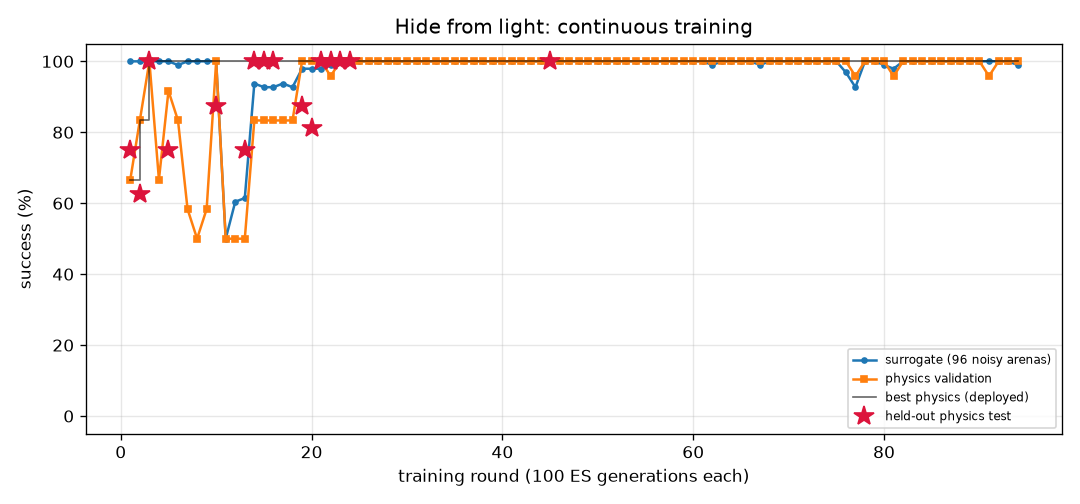
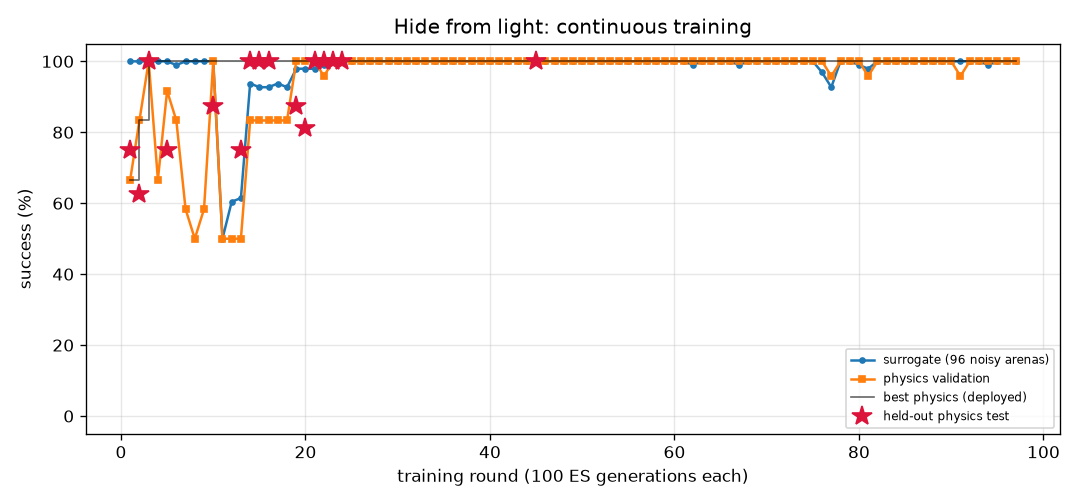
FlyLab: continuous training progress
- walk_forward: optimal, physics val 100% of 24, round 46
- turn: optimal, physics val 100% of 24, round 149
- goto: optimal, physics val 100% of 24, round 46
- odor_seek: optimal, physics val 100% of 24, round 72
- odor_avoid: optimal, physics val 100% of 24, round 291
- light_seek: optimal, physics val 100% of 24, round 223
- light_avoid: optimal, physics val 100% of 24, round 97

diff --git a/projects/09_flylab/training/light_avoid/REPORT.md b/projects/09_flylab/training/light_avoid/REPORT.md
@@ -1,14 +1,14 @@
 # Hide from light (`light_avoid`) — training report
 
-*Auto-generated by `train_brains.py`, last updated 2026-10-04T23:54:23.*
+*Auto-generated by `train_brains.py`, last updated 2026-10-05T12:00:06.*
 
 ![curve](curve.png)
 
 | | |
 |---|---|
-| rounds | 94 |
-| ES generations | 9400 |
-| physics runs | 2496 |
+| rounds | 97 |
+| ES generations | 9700 |
+| physics runs | 2568 |
 | status | **optimal** |
 | best brain | round 45: physics validation **100%** on 24 arenas, surrogate 100% |
 | held-out physics test | **100%** on 32 unseen arenas (95% CI 89%-100%) (errors: [14.4, 28.9, 31.6, 32.2, 31.9, 13.9, 14.5, 34.1, 33.7, 13.3, 14.0, 31.3, 31.1, 13.1, 32.4, 33.8, 32.9, 32.2, 31.7, 32.0, 29.0, 12.3, 31.9, 33.2, 14.2, 13.7, 33.6, 32.5, 33.2, 13.2, 28.1, 33.7]) |
@@ -17,9 +17,6 @@ Physics error per arena: mm gained away from source (> 6 without first approachi
 
 | round | level | gens | sigma | surrogate | physics val | val errors | test | note |
 |---:|---:|---:|---:|---:|---:|---|---:|---|
-| 55 | 3 | 5500 | 0.024 | 100% | 100% | [48.1, 49.4, 49.4, 48.2, 47.7, 48.4, 48.7, 14.5, 43.6, 13.1, 49.3, 47.5, 14.4, 46.7, 49.4, 47.8, 14.2, 48.5, 49.7, 14.4, 47.8, 49.5, 48.4, 46.4] |  |  |
-| 56 | 3 | 5600 | 0.024 | 100% | 100% | [43.9, 45.8, 45.5, 45.1, 46.9, 45.5, 44.0, 14.5, 42.0, 13.4, 46.6, 46.7, 14.3, 45.8, 45.5, 46.1, 14.2, 47.1, 45.7, 14.4, 44.5, 46.8, 44.1, 46.5] |  |  |
-| 57 | 3 | 5700 | 0.024 | 100% | 100% | [50.8, 53.5, 53.6, 50.4, 49.8, 50.2, 53.5, 14.5, 48.3, 13.5, 51.8, 49.7, 14.4, 48.4, 53.6, 50.0, 14.2, 50.9, 53.4, 14.4, 49.6, 51.9, 53.0, 48.6] |  | restart from best |
 | 58 | 3 | 5800 | 0.024 | 100% | 100% | [31.4, 28.9, 28.4, 28.9, 31.0, 31.0, 26.4, 14.5, 28.9, 13.1, 30.4, 31.0, 14.4, 29.0, 28.7, 26.9, 14.2, 31.0, 28.8, 14.4, 26.9, 30.2, 27.0, 30.9] |  |  |
 | 59 | 3 | 5900 | 0.024 | 100% | 100% | [32.7, 32.0, 32.7, 31.3, 30.3, 31.4, 33.6, 14.5, 29.7, 13.3, 28.8, 29.0, 14.4, 33.4, 33.3, 32.1, 14.2, 29.5, 31.6, 14.4, 30.8, 30.1, 32.6, 31.2] |  |  |
 | 60 | 3 | 6000 | 0.024 | 100% | 100% | [39.2, 38.9, 39.3, 38.8, 34.1, 38.6, 39.7, 14.5, 32.3, 13.2, 38.8, 33.5, 14.4, 36.4, 39.0, 39.1, 14.2, 35.2, 38.4, 14.4, 39.3, 38.7, 39.3, 32.6] |  |  |
@@ -57,3 +54,6 @@ Physics error per arena: mm gained away from source (> 6 without first approachi
 | 92 | 3 | 9200 | 0.024 | 100% | 100% | [42.9, 43.2, 43.6, 43.2, 38.5, 42.4, 43.8, 14.5, 39.7, 13.5, 43.4, 37.9, 14.4, 41.9, 43.4, 43.6, 14.2, 39.2, 43.1, 14.4, 44.1, 43.6, 43.0, 37.0] |  |  |
 | 93 | 3 | 9300 | 0.024 | 100% | 100% | [45.5, 46.6, 46.8, 45.6, 43.8, 45.3, 46.6, 14.5, 39.1, 13.2, 44.6, 42.3, 14.4, 45.4, 46.7, 45.0, 14.2, 44.1, 46.1, 14.4, 45.0, 45.7, 46.8, 42.4] |  | restart from best |
 | 94 | 3 | 9400 | 0.024 | 99% | 100% | [37.1, 37.9, 37.6, 38.9, 40.4, 36.4, 35.8, 14.5, 11.3, 13.5, 39.0, 40.4, 14.4, 39.0, 37.6, 38.2, 14.2, 40.2, 38.1, 14.4, 35.8, 39.5, 35.4, 40.5] |  |  |
+| 95 | 3 | 9500 | 0.025 | 100% | 100% | [44.4, 46.2, 45.9, 46.4, 50.0, 46.1, 44.1, 14.5, 46.3, 11.5, 47.0, 50.0, 14.4, 47.5, 46.1, 47.3, 14.2, 49.8, 46.3, 14.4, 42.8, 47.7, 44.6, 50.4] |  |  |
+| 96 | 3 | 9600 | 0.024 | 100% | 100% | [56.4, 59.2, 58.9, 56.8, 58.4, 55.7, 57.7, 14.5, 53.5, 13.3, 57.1, 58.2, 14.4, 58.0, 59.1, 55.7, 14.2, 58.9, 59.5, 14.4, 55.6, 56.9, 57.6, 57.6] |  |  |
+| 97 | 3 | 9700 | 0.024 | 100% | 100% | [53.0, 54.7, 54.6, 52.9, 52.6, 52.3, 54.0, 14.5, 50.2, 13.3, 52.7, 52.3, 14.4, 54.1, 54.7, 51.8, 14.2, 53.3, 54.7, 14.4, 51.3, 52.9, 53.6, 51.6] |  | restart from best |

diff --git a/projects/09_flylab/training/odor_avoid/REPORT.md b/projects/09_flylab/training/odor_avoid/REPORT.md
@@ -1,14 +1,14 @@
 # Escape a bad smell (`odor_avoid`) — training report
 
-*Auto-generated by `train_brains.py`, last updated 2026-10-04T23:16:26.*
+*Auto-generated by `train_brains.py`, last updated 2026-10-05T11:59:56.*
 
 ![curve](curve.png)
 
 | | |
 |---|---|
-| rounds | 288 |
-| ES generations | 28800 |
-| physics runs | 4090 |
+| rounds | 291 |
+| ES generations | 29100 |
+| physics runs | 4162 |
 | status | **optimal** |
 | best brain | round 288: physics validation **100%** on 24 arenas, surrogate 98% |
 | held-out physics test | **100%** on 32 unseen arenas (95% CI 89%-100%) (errors: [61.2, 57.1, 61.4, 61.0, 13.5, 61.1, 61.1, 60.7, 60.0, 56.9, 60.8, 56.8, 60.8, 60.0, 58.7, 59.7, 60.7, 54.4, 60.9, 54.7, 61.1, 60.5, 57.7, 58.7, 59.8, 55.9, 55.7, 45.8, 55.9, 58.2, 59.2, 28.5]) |
@@ -17,9 +17,6 @@ Physics error per arena: mm gained away from source (> 6 without first approachi
 
 | round | level | gens | sigma | surrogate | physics val | val errors | test | note |
 |---:|---:|---:|---:|---:|---:|---|---:|---|
-| 249 | 3 | 24900 | 0.025 | 94% | 96% | [43.9, 42.4, 42.1, 43.1, 42.7, 42.9, 43.7, 43.4, 43.1, 43.2, 43.6, 43.4, 40.7, 42.2, 38.7, 42.8, 43.2, 42.8, 41.0, 41.4, 43.3, 42.8, 42.7, 43.0] |  |  |
-| 250 | 3 | 25000 | 0.028 | 94% | 92% | [42.7, 42.1, 40.3, 41.0, 41.2, 42.0, 42.1, 43.2, 42.1, 42.9, 40.7, 42.3, 34.3, 37.0, 30.7, 41.5, 42.1, 41.7, 33.2, 41.6, 42.0, 42.9, 42.3, 43.2] |  | restart from best |
-| 251 | 3 | 25100 | 0.026 | 95% | 96% | [46.2, 44.7, 44.1, 45.0, 45.0, 44.7, 46.1, 45.2, 45.9, 44.6, 45.5, 45.5, 40.6, 42.1, 30.6, 44.2, 45.6, 44.5, 41.3, 43.1, 45.3, 45.0, 45.2, 44.7] |  |  |
 | 252 | 3 | 25200 | 0.027 | 96% | 100% | [48.5, 47.6, 45.0, 46.5, 45.4, 46.7, 47.6, 47.5, 47.4, 46.1, 45.9, 47.6, 40.9, 42.9, 34.7, 46.2, 47.3, 46.5, 42.4, 46.9, 47.8, 46.4, 46.7, 47.5] | 100% | new best |
 | 253 | 3 | 25300 | 0.026 | 95% | 96% | [44.2, 42.2, 39.2, 41.8, 43.1, 41.6, 44.5, 39.7, 43.6, 40.4, 43.3, 43.9, 37.6, 38.9, 25.1, 42.8, 43.9, 41.6, 38.6, 40.1, 43.9, 40.7, 41.9, 41.6] |  |  |
 | 254 | 3 | 25400 | 0.027 | 96% | 96% | [44.0, 42.7, 42.1, 43.1, 43.1, 41.6, 44.0, 23.8, 44.2, 31.9, 43.0, 43.7, 37.8, 39.6, 29.9, 42.0, 43.4, 41.8, 39.0, 42.9, 43.5, 38.8, 43.2, 37.9] |  |  |
@@ -57,3 +54,6 @@ Physics error per arena: mm gained away from source (> 6 without first approachi
 | 286 | 3 | 28600 | 0.026 | 95% | 96% | [58.9, 58.3, 55.0, 57.7, 59.9, 60.0, 59.6, 52.2, 59.5, 59.3, 59.2, 59.5, 51.0, 54.1, 39.8, 59.6, 59.8, 58.6, 52.5, 57.5, 60.1, 59.4, 57.1, 42.6] |  |  |
 | 287 | 3 | 28700 | 0.027 | 97% | 96% | [61.9, 55.9, 56.6, 56.7, 60.0, 60.1, 60.3, 57.1, 58.8, 59.3, 60.7, 59.8, 54.3, 56.4, 41.6, 60.9, 60.1, 60.2, 54.0, 53.5, 60.4, 59.2, 56.2, 58.6] |  |  |
 | 288 | 3 | 28800 | 0.026 | 98% | 100% | [61.9, 59.0, 55.6, 58.9, 61.2, 60.8, 59.8, 15.9, 59.7, 35.8, 52.4, 61.3, 50.8, 53.6, 12.5, 57.0, 61.4, 52.0, 54.4, 58.3, 61.0, 38.7, 59.1, 57.0] | 100% | new best |
+| 289 | 3 | 28900 | 0.025 | 95% | 96% | [61.8, 58.8, 56.8, 59.2, 61.2, 61.4, 60.4, 25.7, 61.0, 58.6, 61.4, 60.4, 54.3, 56.7, 41.0, 60.7, 61.2, 59.8, 54.3, 55.2, 61.1, 60.8, 58.7, 58.7] |  |  |
+| 290 | 3 | 29000 | 0.027 | 97% | 96% | [60.5, 56.8, 57.0, 57.3, 60.1, 59.2, 60.4, 50.9, 60.9, 42.3, 59.9, 60.0, 52.9, 54.8, 39.7, 60.1, 60.4, 59.6, 53.6, 57.1, 59.7, 51.1, 58.4, 50.6] |  |  |
+| 291 | 3 | 29100 | 0.026 | 94% | 96% | [59.4, 57.5, 56.1, 57.5, 59.5, 60.6, 60.0, 50.3, 60.0, 59.5, 58.2, 59.7, 52.7, 54.1, 34.1, 59.4, 59.5, 60.1, 53.5, 56.4, 59.7, 56.1, 57.8, 47.1] |  |  |

diff --git a/projects/09_flylab/training/turn/REPORT.md b/projects/09_flylab/training/turn/REPORT.md
@@ -1,14 +1,14 @@
 # Turn in place (`turn`) — training report
 
-*Auto-generated by `train_brains.py`, last updated 2026-10-05T11:13:46.*
+*Auto-generated by `train_brains.py`, last updated 2026-10-05T11:28:33.*
 
 ![curve](curve.png)
 
 | | |
 |---|---|
-| rounds | 148 |
-| ES generations | 14800 |
-| physics runs | 3798 |
+| rounds | 149 |
+| ES generations | 14900 |
+| physics runs | 3822 |
 | status | **optimal** |
 | best brain | round 80: physics validation **100%** on 24 arenas, surrogate 100% |
 | held-out physics test | **97%** on 32 unseen arenas (95% CI 84%-99%) (errors: [1.6, 3.3, 6.3, 3.7, 1.1, 0.4, 2.4, 2.9, 0.1, 2.6, 0.5, 2.7, 1.5, 3.1, 4.5, 0.2, 0.5, 1.1, 2.0, 4.4, 2.8, 3.2, 0.3, 2.2, 0.5, 3.0, 0.3, 5.4, 0.4, 1.0, 4.7, 10.7]) |
@@ -17,7 +17,6 @@ Physics error per arena: deg from target heading (< 20 = success).
 
 | round | level | gens | sigma | surrogate | physics val | val errors | test | note |
 |---:|---:|---:|---:|---:|---:|---|---:|---|
-| 109 | 3 | 10900 | 0.024 | 99% | 88% | [7.7, 10.0, 8.9, 5.2, 4.5, 0.5, 4.2, 0.3, 4.5, 1.7, 2.3, 2.7, 3.5, 4.1, 2.0, 0.3, 2.2, 1.9, 0.2, 2.0, 4.5, 0.1, 2.9, 6.3] |  |  |
 | 110 | 3 | 11000 | 0.025 | 100% | 92% | [1.0, 2.6, 1.4, 1.5, 0.5, 0.0, 2.1, 7.2, 2.2, 1.4, 3.6, 1.4, 0.4, 1.7, 1.7, 0.5, 1.3, 0.8, 1.3, 0.7, 0.2, 2.2, 6.2, 0.7] |  |  |
 | 111 | 3 | 11100 | 0.024 | 99% | 88% | [5.7, 8.8, 3.7, 4.2, 4.0, 0.6, 2.1, 3.8, 1.2, 0.5, 2.6, 0.9, 1.5, 3.7, 2.5, 1.6, 0.8, 0.4, 1.4, 1.7, 5.6, 0.4, 3.8, 6.5] |  |  |
 | 112 | 3 | 11200 | 0.025 | 99% | 88% | [0.4, 5.7, 2.7, 3.5, 0.6, 2.0, 4.1, 4.7, 2.8, 0.0, 5.1, 0.3, 2.0, 1.1, 4.0, 0.3, 0.9, 0.8, 1.6, 2.2, 5.2, 1.5, 6.2, 3.6] |  | restart from best |
@@ -57,3 +56,4 @@ Physics error per arena: deg from target heading (< 20 = success).
 | 146 | 3 | 14600 | 0.024 | 100% | 71% | [6.0, 2.9, 3.1, 0.9, 2.1, 119.8, 5.1, 7.3, 5.0, 14.5, 4.3, 0.8, 0.1, 0.7, 4.3, 1.6, 1.0, 1.7, 1.6, 4.0, 4.3, 0.1, 4.8, 5.5] |  |  |
 | 147 | 3 | 14700 | 0.024 | 100% | 83% | [2.7, 0.0, 12.3, 1.5, 1.5, 1.8, 6.1, 4.9, 4.5, 0.2, 4.3, 0.4, 2.9, 0.2, 5.6, 1.3, 0.5, 1.8, 1.2, 0.3, 3.0, 0.8, 6.6, 6.9] |  |  |
 | 148 | 3 | 14800 | 0.024 | 99% | 75% | [8.7, 9.4, 9.0, 3.9, 2.9, 2.3, 3.2, 4.4, 3.2, 0.7, 3.0, 3.1, 1.9, 2.0, 2.0, 1.6, 3.5, 0.4, 1.5, 1.5, 5.5, 1.2, 3.4, 3.8] |  | restart from best |
+| 149 | 3 | 14900 | 0.024 | 100% | 83% | [3.0, 2.1, 7.6, 0.1, 12.8, 3.5, 4.4, 6.4, 4.3, 0.1, 5.5, 1.1, 0.3, 1.9, 3.6, 10.3, 0.8, 2.6, 1.1, 0.4, 4.5, 1.1, 6.5, 2.0] |  |  |

diff --git a/projects/09_flylab/training/TRAINING.md b/projects/09_flylab/training/TRAINING.md
@@ -1,15 +1,15 @@
 # FlyLab brains — continuous training log
 
-*Auto-generated by `train_brains.py`, last updated 2026-10-05T11:28:12.*
+*Auto-generated by `train_brains.py`, last updated 2026-10-05T12:00:06.*
 
 Every skill has its own brain and its own training process: surrogate ES rounds, physics validation in MuJoCo, keep-the-best selection, and a held-out physics test that is never used for selection. See each skill's report for its full round-by-round history. Mastery is progressive: passing a level (100% physics validation, >=95% surrogate) doubles the validation and test arena sets; a brain is **optimal** once it holds up at level 3 (>=95% of 24 validation arenas) AND scores >=90% on the 32 held-out test arenas. Test columns show 95% Wilson confidence intervals.
 
 | skill | rounds | ES generations | physics runs | surrogate | physics val | **physics test** | status |
 |---|---:|---:|---:|---:|---:|---:|---|
 | [Walk forward](walk_forward/REPORT.md) | 46 | 4600 | 1022 | 100% | 100% of 24 | 100% of 32 (CI 89-100%) | **optimal** |
-| [Turn in place](turn/REPORT.md) | 148 | 14800 | 3798 | 100% | 100% of 24 | 97% of 32 (CI 84-99%) | **optimal** |
+| [Turn in place](turn/REPORT.md) | 149 | 14900 | 3822 | 100% | 100% of 24 | 97% of 32 (CI 84-99%) | **optimal** |
 | [Go to a location](goto/REPORT.md) | 46 | 4600 | 894 | 100% | 100% of 24 | 100% of 32 (CI 89-100%) | **optimal** |
 | [Find food by smell](odor_seek/REPORT.md) | 72 | 7200 | 966 | 100% | 100% of 24 | 100% of 32 (CI 89-100%) | **optimal** |
-| [Escape a bad smell](odor_avoid/REPORT.md) | 288 | 28800 | 4090 | 98% | 100% of 24 | 100% of 32 (CI 89-100%) | **optimal** |
+| [Escape a bad smell](odor_avoid/REPORT.md) | 291 | 29100 | 4162 | 98% | 100% of 24 | 100% of 32 (CI 89-100%) | **optimal** |
 | [Walk toward light](light_seek/REPORT.md) | 223 | 22300 | 2072 | 100% | 100% of 24 | 97% of 32 (CI 84-99%) | **optimal** |
-| [Hide from light](light_avoid/REPORT.md) | 94 | 9400 | 2496 | 100% | 100% of 24 | 100% of 32 (CI 89-100%) | **optimal** |
+| [Hide from light](light_avoid/REPORT.md) | 97 | 9700 | 2568 | 100% | 100% of 24 | 100% of 32 (CI 89-100%) | **optimal** |
